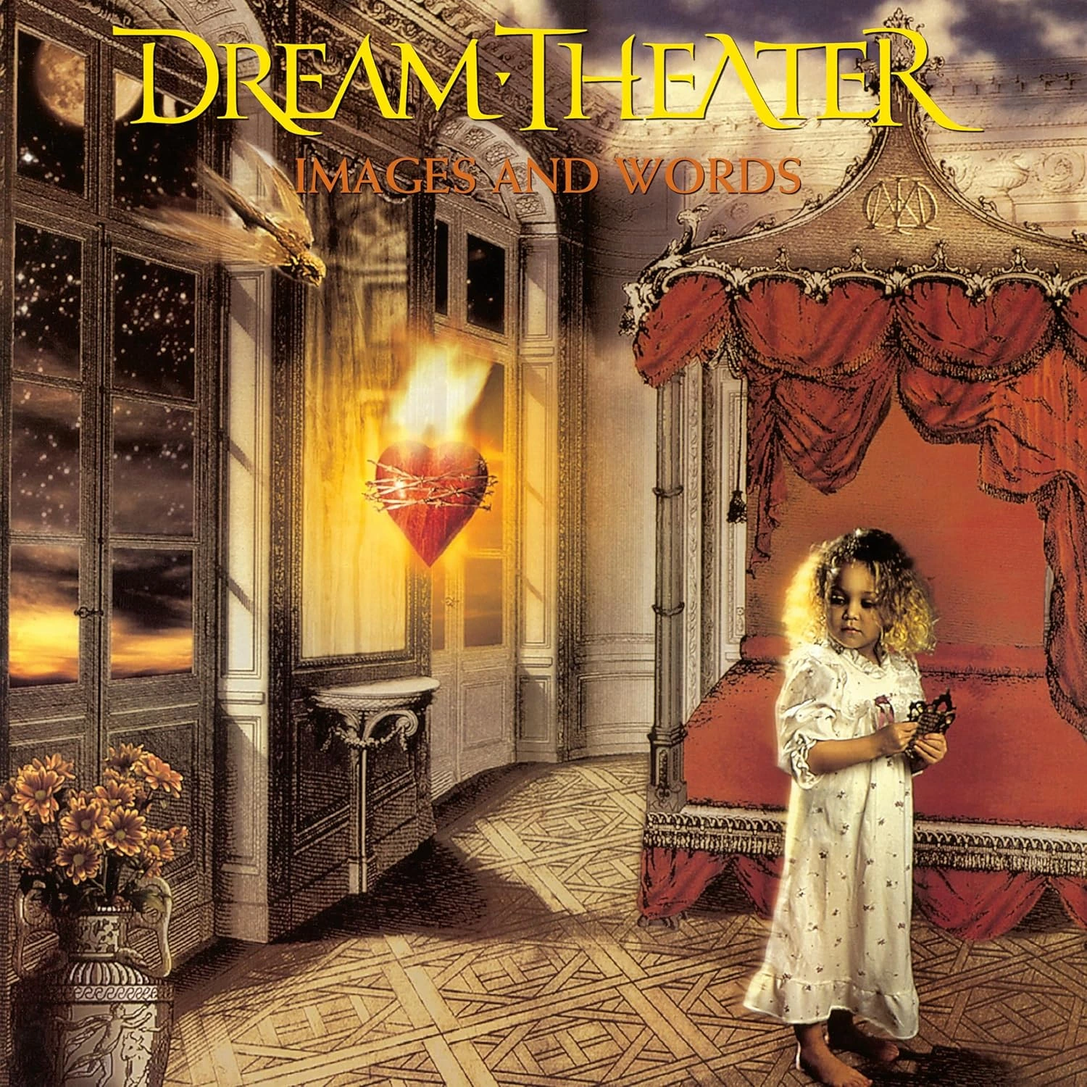
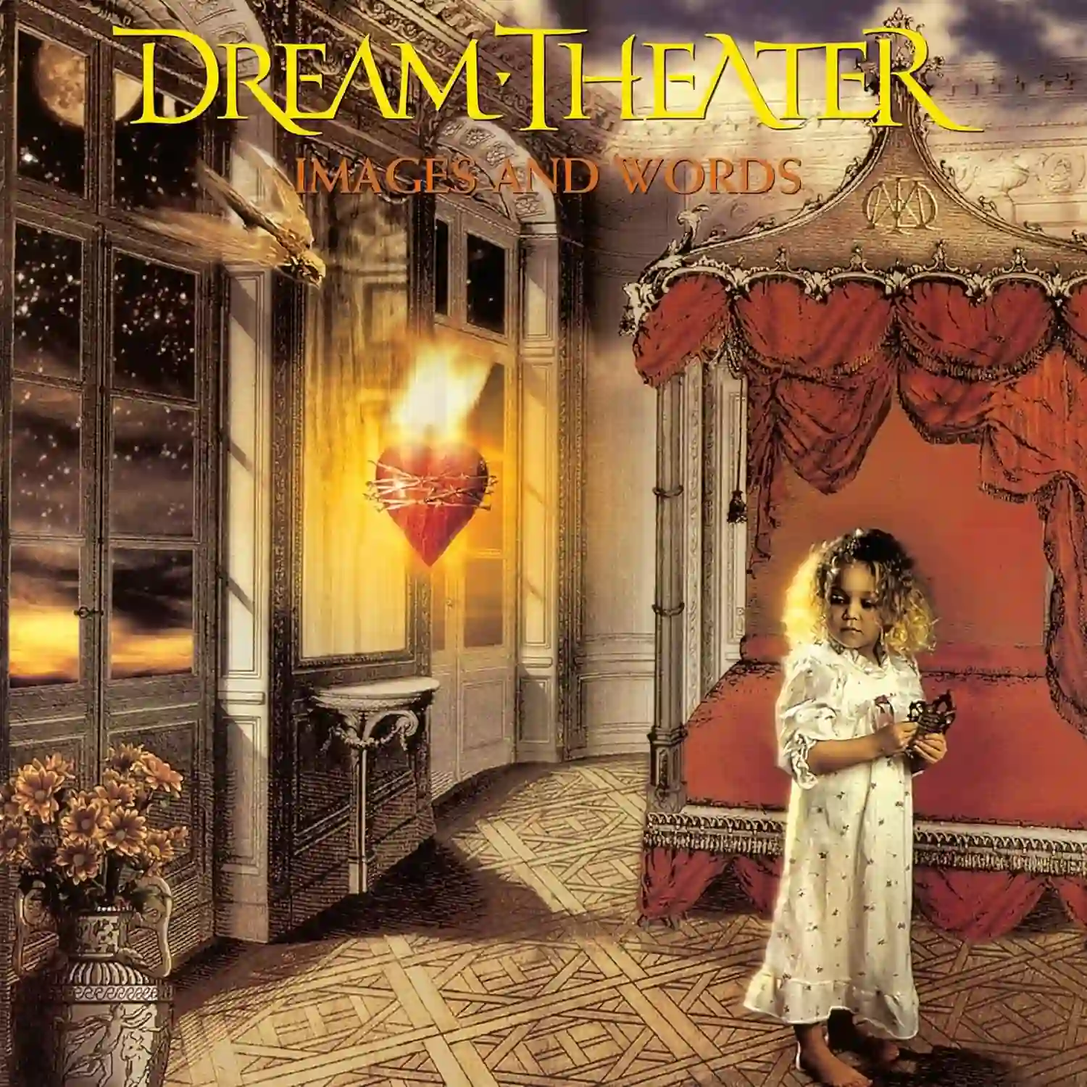
le baje el peso a las fotos ahora todas son de 89-90kbs para mejorar el tiempo de carga
optimizacion para cargar la imagen del captcha más rápido

el componente muestra un spinner cuando se esta cargando una nueva imagen

Se añadieron estilos para el spinner

diff --git a/resources/js/pages/auth/Register.vue b/resources/js/pages/auth/Register.vue
@@ -15,6 +15,7 @@ import axios, { AxiosError } from 'axios';
 const captchaImage = ref<string>('');
 const captchaAnswer = ref<string>('');
 const captchaError = ref<string>('');
+const isLoading = ref(false);
 
 const form = useForm({
     name: '',
@@ -39,21 +40,27 @@ const submit = async () => {
 
 // generar nuevo captcha
 const generateNewCaptcha = async () => {
+    isLoading.value = true;
+
     try {
-        const response = await axios.get('/captcha/generate', {
-            responseType: 'blob'
+        const cacheBuster = Date.now();
+        const { data } = await axios.get(`/captcha/generate?_=${cacheBuster}`, {
+            responseType: 'blob',
+            timeout: 3000 // Timeout de 3 segundos
         });
+
+        // libera memoria de la imagen anterior
+        if (captchaImage.value) {
+            URL.revokeObjectURL(captchaImage.value);
+        }
+        // crea un nuevo objeto URL para la nueva imagen
+        captchaImage.value = URL.createObjectURL(data);
         
-        const reader = new FileReader();
-        reader.onload = (e: ProgressEvent<FileReader>) => {
-            if (e.target?.result) {
-                captchaImage.value = e.target.result.toString();
-            }
-        };
-        reader.readAsDataURL(response.data);
-    } catch (error: unknown) {
-        captchaError.value = 'Failed to load CAPTCHA. Please try again.';
-        console.error('CAPTCHA error:', error);
+    } catch (error) {
+        captchaError.value = 'Error loading challenge';
+        console.error('CAPTCHA load failed:', error);
+    } finally {
+        isLoading.value = false;
     }
 };
 
@@ -84,6 +91,7 @@ const nextStep = () => {
 
 const validateCaptcha = async (): Promise<boolean> => {
     // Validación básica del frontend
+    // muestra mensjae si el campo fue enviado vacío
     if (!captchaAnswer.value?.trim()) {
         captchaError.value = 'You must enter the band\'s name, unless... you\'re a bot or a poser.';
         return false;
@@ -94,8 +102,9 @@ const validateCaptcha = async (): Promise<boolean> => {
             captcha_answer: captchaAnswer.value.trim()
         });
 
+        // respuesta incorrecta
         if (!data.success) {
-            captchaError.value = data.error || 'Poser detected.';
+            captchaError.value = data.error;
             await generateNewCaptcha();
             return false;
         }
@@ -135,6 +144,10 @@ const prevStep = () => {
         currentStep.value--;
     }
 };
+
+const handleImageLoad = () => {
+    console.log('CAPTCHA image loaded successfully');
+};
 </script>
 
 <template>
@@ -169,12 +182,20 @@ const prevStep = () => {
                 <!-- CAPTCHA verification -->
                 <section v-show="currentStep === 1">
                     <div class="captcha-container">
+                        <!-- spinner -->
+                        <div v-if="isLoading" class="spinner-container">
+                            <LoaderCircle class="spinner" />
+                            <p>Verifying your metal credentials...</p>
+                        </div>
+                    
                         <div class="text-center">
                             <h3>what band does this album belong to?</h3>
                             <img
+                                v-if="captchaImage"
                                 :src="captchaImage"
                                 alt="CAPTCHA Album Cover"
                                 class="margin-block-4"
+                                @load="handleImageLoad"
                             />
                         </div>
 
@@ -204,7 +225,7 @@ const prevStep = () => {
                                 Verify
                             </Button>
                             
-                            <!-- another album -->
+                            <!-- retry challenge -->
                             <button
                                 type="button"
                                 @click="generateNewCaptcha"
@@ -316,5 +337,38 @@ const prevStep = () => {
 <style scope>
 .text-red-500 {
     color: #ef4444;
+}
+.spinner-container {
+    display: flex;
+    flex-direction: column;
+    align-items: center;
+    gap: 1rem;
+    padding: 2rem;
+}
+
+.spinner {
+    animation: spin 1s linear infinite;
+    color: #ef4444; /* Color metalero */
+}
+
+@keyframes spin {
+    to { transform: rotate(360deg); }
+}
+
+.error-message {
+    color: #ef4444;
+    background: #fee2e2;
+    padding: 0.5rem;
+    margin: 0.5rem 0;
+    border-radius: 0.25rem;
+    text-align: center;
+    animation: fadeIn 0.3s ease-out;
+}
+
+.captcha-image {
+    max-width: 100%;
+    height: auto;
+    border-radius: 0.5rem;
+    box-shadow: 0 4px 6px -1px rgba(0, 0, 0, 0.1);
 }
 </style>

diff --git a/resources/styles/components/_captcha-container.scss b/resources/styles/components/_captcha-container.scss
@@ -14,7 +14,7 @@
             text-align: center;
             margin: 0.5rem 0;
             padding: 0.5rem;
-            background: #fee2e2;
+            background: $color-neutral-100;
         }
 
         .disabled {

diff --git a/app/Http/Controllers/CaptchaController.php b/app/Http/Controllers/CaptchaController.php
@@ -7,6 +7,7 @@ use Intervention\Image\ImageManager;
 use Intervention\Image\Drivers\Gd\Driver;
 use Illuminate\Support\Facades\Cache;
 use Illuminate\Support\Facades\Log;
+use Spatie\MediaLibrary\Conversions\ImageGenerators\Image;
 
 class CaptchaController extends Controller
 {
@@ -76,45 +77,41 @@ class CaptchaController extends Controller
     public function generateMetalCaptcha()
     {
         try {
-            $manager = new ImageManager(new Driver());
-            
-            // Seleccionar banda y álbum aleatorio
             $bandKey = array_rand($this->bands);
             $band = $this->bands[$bandKey];
             $album = $band['albums'][array_rand($band['albums'])];
-            
-            // Ruta de la imagen
             $imagePath = public_path("images/albums/{$album}.webp");
-            
+    
             if (!file_exists($imagePath)) {
-                throw new \Exception("Album image not found: {$album}");
+                throw new \Exception("Image not found");
             }
-
-            // Procesar imagen
-            $image = $manager->read($imagePath)
+    
+            // Almacena la KEY de la banda, no el nombre del álbum
+            Cache::put(
+                'captcha_'.request()->ip(),
+                $bandKey, // <- Cambio crucial aquí
+                now()->addMinutes(10)
+            );
+    
+            // Procesamiento mínimo
+            $image = (new ImageManager(new Driver()))
+                ->read($imagePath)
                 ->greyscale()
-                ->rotate(rand(-30, 30))
-                ->blur(rand(5, 10))
                 ->contrast(rand(40, 60))
-                ->pixelate(rand(10, 20))
                 ->colorize(
                     rand(-30, 30),
                     rand(-30, 30),
                     rand(-30, 30)
                 )
-                ->brightness(rand(-30, 30))
-                ->sharpen(30);
-
-            // Guardar respuesta en caché (banda correcta)
-            $cacheKey = 'captcha_'.request()->ip();
-            Cache::put($cacheKey, $bandKey, now()->addMinutes(10));
-            
-            return response($image->toPng())
-                ->header('Content-Type', 'image/png');
-
+                ->pixelate(24); // Solo efecto esencial
+    
+            return response($image->toWebp(75))
+                ->header('Content-Type', 'image/webp')
+                ->header('Cache-Control', 'no-store, max-age=0');
+    
         } catch (\Exception $e) {
-            Log::error('CAPTCHA generation failed: '.$e->getMessage());
-            return response()->json(['error' => 'Failed to generate CAPTCHA'], 500);
+            Log::error("CAPTCHA Error: {$e->getMessage()}");
+            return response()->json(['error' => 'CAPTCHA failed'], 500);
         }
     }
 
